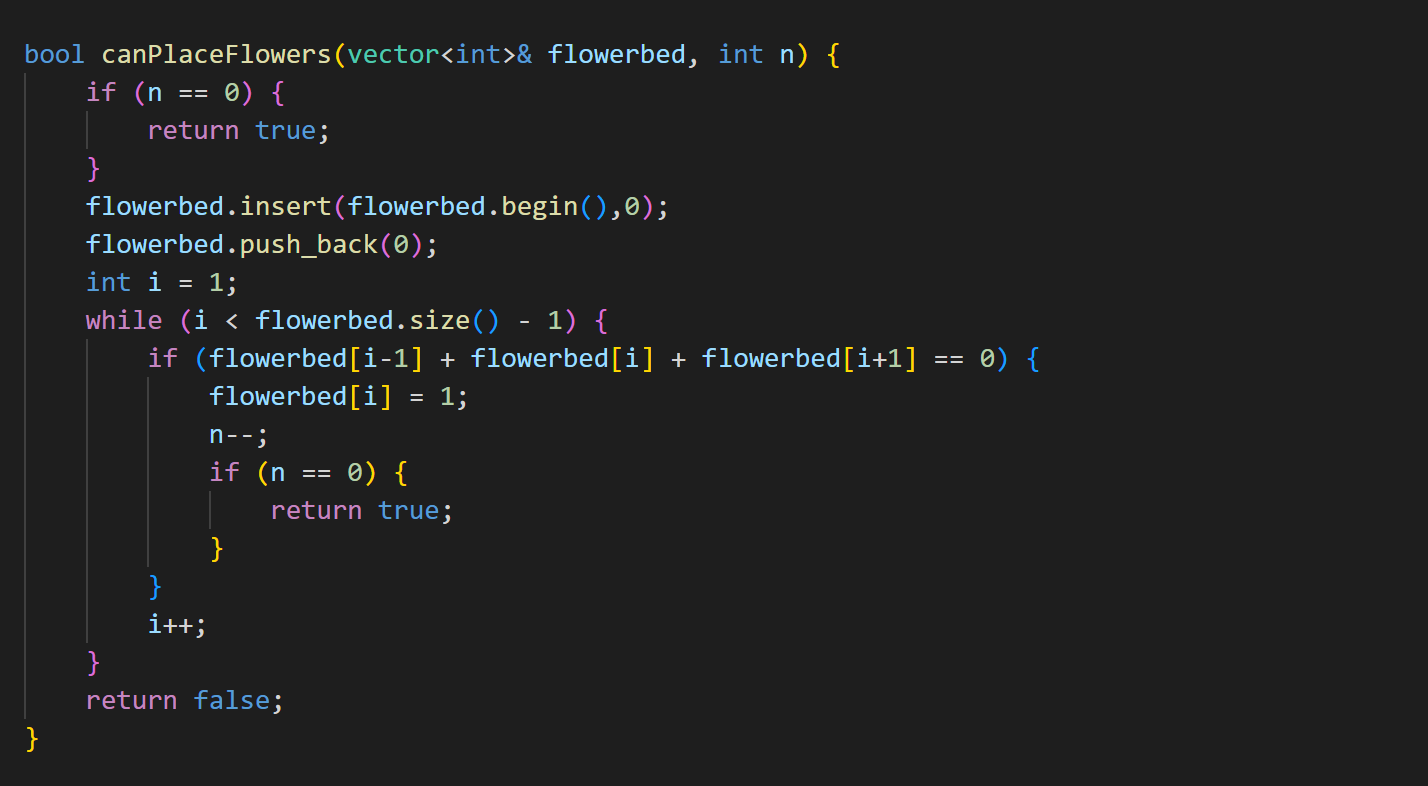
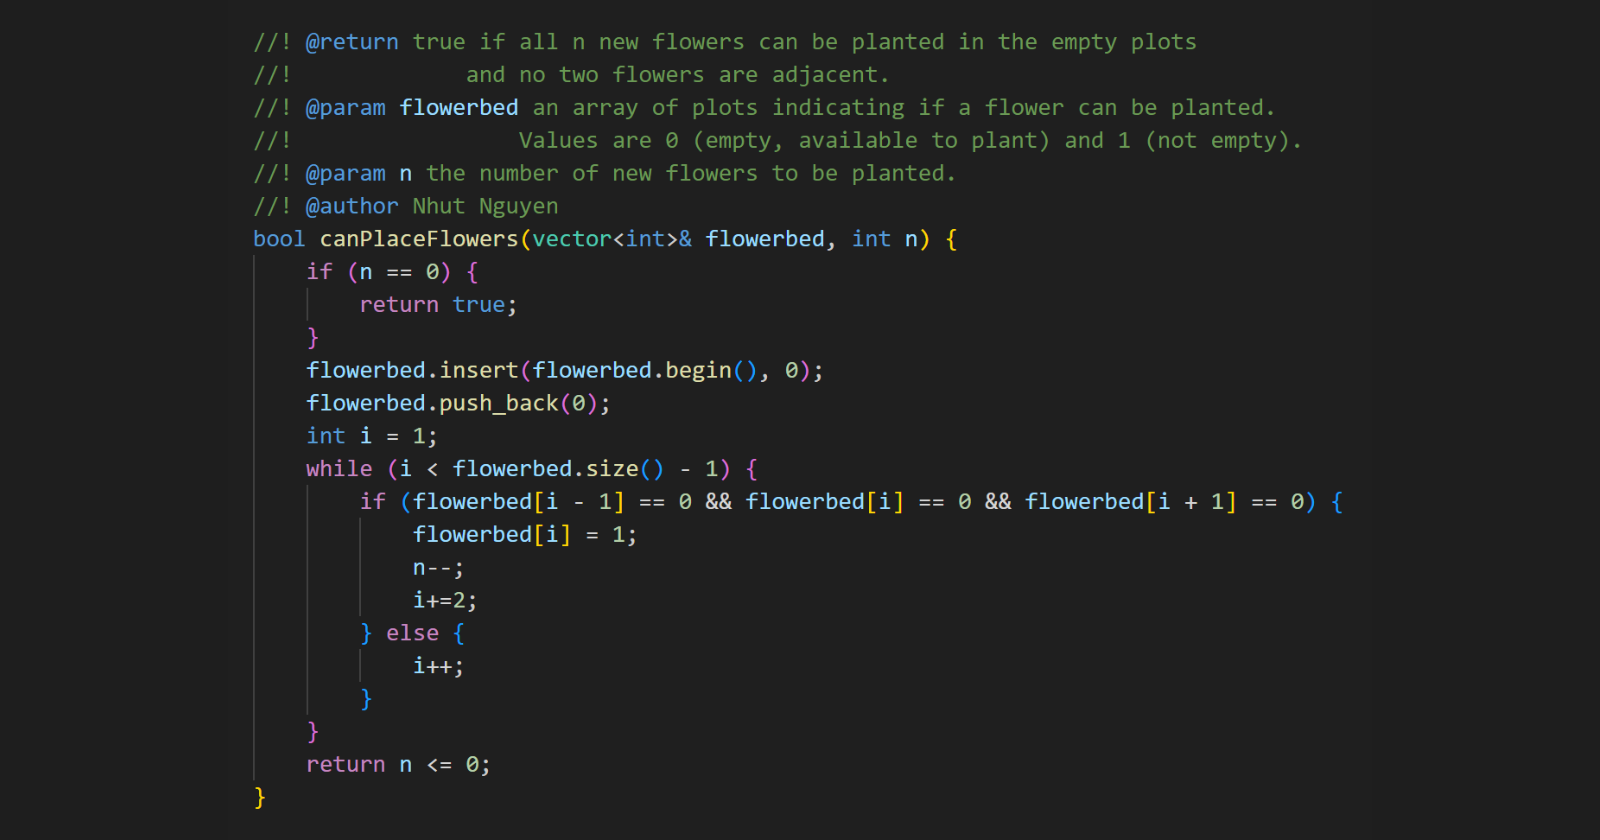
605 update solution

diff --git a/605. Can Place Flowers/605_Can_Place_Flowers.cpp b/605. Can Place Flowers/605_Can_Place_Flowers.cpp
@@ -1,0 +1,35 @@
+#include <iostream>
+#include <vector>
+using namespace std;
+
+//! @return true if all n new flowers can be planted in the empty plots 
+//!             and no two flowers are adjacent.
+//! @param flowerbed an array of plots indicating if a flower can be planted.
+//!                 Values are 0 (empty, available to plant) and 1 (not empty).
+//! @param n the number of new flowers to be planted.
+//! @author Nhut Nguyen
+bool canPlaceFlowers(vector<int>& flowerbed, int n) {
+    if (n == 0) {
+        return true;
+    }
+    flowerbed.insert(flowerbed.begin(), 0);
+    flowerbed.push_back(0);
+    int i = 1;
+    while (i < flowerbed.size() - 1) {
+        if (flowerbed[i - 1] == 0 && flowerbed[i] == 0 && flowerbed[i + 1] == 0) {
+            flowerbed[i] = 1;
+            n--;
+            i+=2;
+        } else {
+            i++;
+        }
+    }
+    return n <= 0;
+}
+
+int main() {
+    vector<int> flowerbed{1,0,0,0,1};
+    cout << canPlaceFlowers(flowerbed, 1) << endl;
+    flowerbed = {1,0,0,0,1};
+    cout << canPlaceFlowers(flowerbed, 2) << endl;
+}

diff --git a/605. Can Place Flowers/README.md b/605. Can Place Flowers/README.md
@@ -31,6 +31,7 @@ A new flower can be planted at position `i` only if
 ```plain
 flowerbed[i - 1] == 0 && flowerbed[i] == 0 && flowerbed[i + 1] == 0.
 ```
+If the condition is satisfied, the flower can be planted at position `i`. `flowerbed[i]` is now assigned to `1`. Then you can skip checking the rule for the position `i + 1` and go directly to position `i + 2`. 
 
 #### Code
 ```cpp
@@ -45,16 +46,15 @@ bool canPlaceFlowers(vector<int>& flowerbed, int n) {
     flowerbed.push_back(0);
     int i = 1;
     while (i < flowerbed.size() - 1) {
-        if (flowerbed[i - 1] + flowerbed[i] + flowerbed[i + 1] == 0) {
+        if (flowerbed[i - 1] == 0 && flowerbed[i] == 0 && flowerbed[i + 1] == 0) {
             flowerbed[i] = 1;
             n--;
-            if (n == 0) {
-                return true;
-            }
+            i+=2;
+        } else {
+            i++;
         }
-        i++;
     }
-    return false;
+    return n <= 0;
 }
 int main() {
     vector<int> flowerbed{1,0,0,0,1};
@@ -75,7 +75,10 @@ Output:
 
 ### Implementation note
 * In this implementation, you could insert element `0` to the front and the back of vector `flowerbed` to avoid writing extra code for checking the no-adjacent-flowers rule at `i = 0` and `i = flowerbed.size() - 1`.
+* There are a few ways to insert an element to a vector. Here you can see an example of using the methods [`insert`](https://en.cppreference.com/w/cpp/container/vector/insert) and [`push_back`](https://en.cppreference.com/w/cpp/container/vector/push_back) of a [`std::vector`](https://en.cppreference.com/w/cpp/container/vector).
 
-### References
-* [https://leetcode.com/problems/can-place-flowers/](https://leetcode.com/problems/can-place-flowers/)
-* [https://www.leetsolve.com/605-can-place-flowers](https://www.leetsolve.com/605-can-place-flowers)
+***
+
+*What is your approach? The problem was picked from [leetcode.com](https://leetcode.com/problems/can-place-flowers/). You can submit your solution in any programming language and check the performance.*
+
+*Thanks for reading. Feel free to share your thought about my content and check out my FREE book [10 Classic Coding Challenges](https://store.nhutnguyen.com/l/10_classic).*
